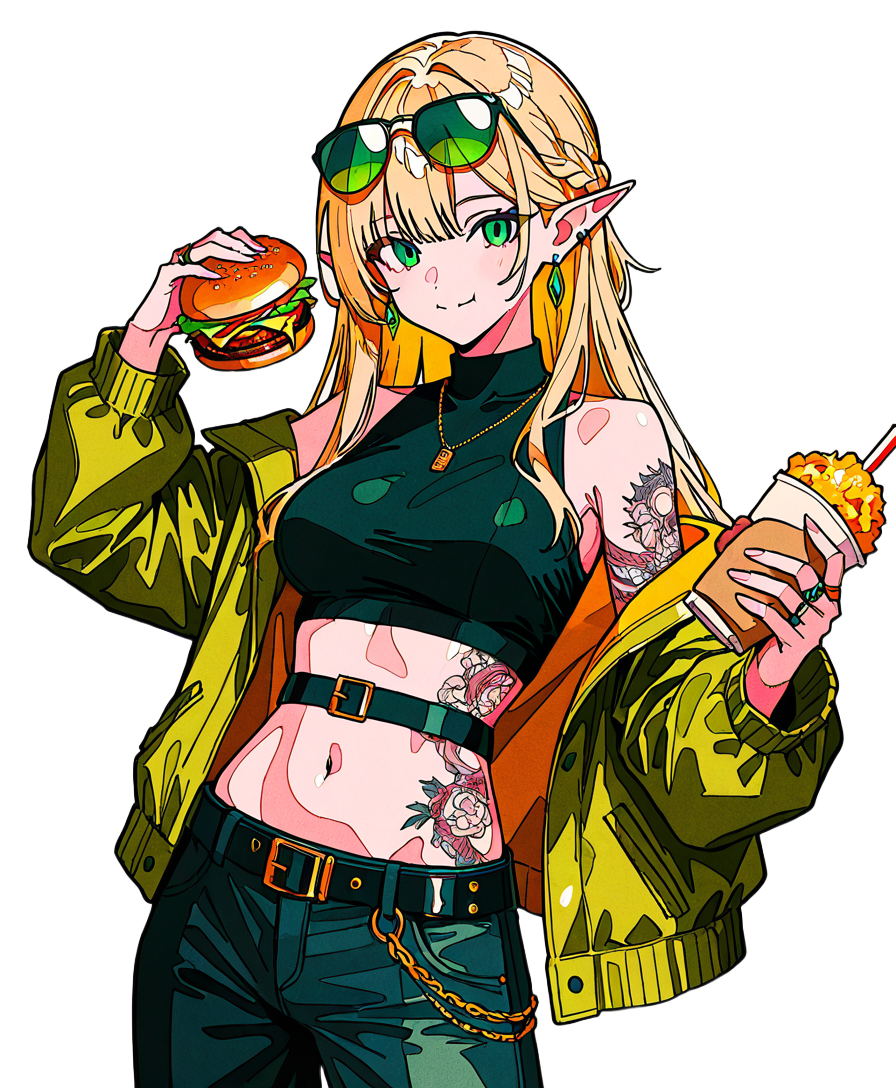
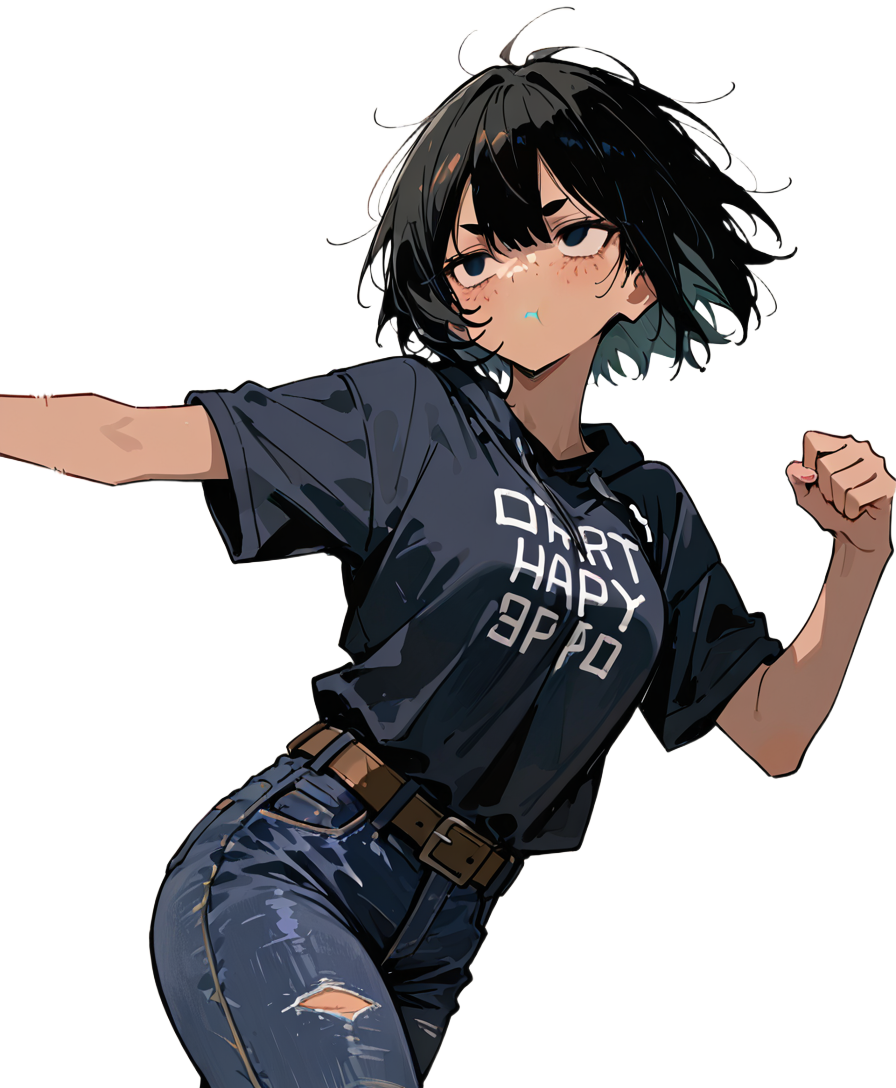
tinny upgrade

diff --git a/vite.config.js b/vite.config.js
@@ -20,7 +20,16 @@ export default defineConfig({
       '/api': {
         target: 'http://localhost:8000',
         changeOrigin: true,
-      }
-    }
-  }
+        // 立绘/背景可能数十分钟；Node 默认 socket 约 2min、代理层也可能断连，易触发后端 CancelledError
+        timeout: 3_600_000,
+        proxyTimeout: 3_600_000,
+        configure(proxy) {
+          proxy.on('proxyReq', (_proxyReq, req) => {
+            req.setTimeout(0)
+            req.socket?.setTimeout?.(0)
+          })
+        },
+      },
+    },
+  },
 })

diff --git a/server/app/services/get_runninghub_pic.py b/server/app/services/get_runninghub_pic.py
@@ -14,8 +14,67 @@ import requests
 from typing import List, Optional, Tuple
 from urllib.parse import urlparse
 
-# 与 get_running_pic 中用于文件名后缀的表情标识一致
-EXPRESSION_LS = ['happy', 'depression', 'crying', 'smile', 'surprise', 'shy', 'tsundere','anger','sad']
+# public/img_generate_default_para.json：默认立绘表情 id → 详细英文说明（可随时改文件，mtime 变则自动重载）
+_STAND_EXPR_JSON_REL = "public/img_generate_default_para.json"
+_stand_expr_cache: Tuple[Optional[float], List[Tuple[str, str]]] = (None, [])
+
+
+def _parse_stand_expressions_data(data: object) -> List[Tuple[str, str]]:
+    """支持顶层 { \"happy\": \"...\" } 或 { \"expressions\": { ... } }；忽略以 _ 开头的键。"""
+    if not isinstance(data, dict):
+        return []
+    raw: dict
+    ex = data.get("expressions")
+    if isinstance(ex, dict):
+        raw = ex
+    else:
+        raw = data
+    out: List[Tuple[str, str]] = []
+    for k, v in raw.items():
+        ks = str(k).strip()
+        if not ks or ks.startswith("_"):
+            continue
+        if isinstance(v, str) and v.strip():
+            out.append((ks, v.strip()))
+        elif isinstance(v, dict):
+            det = (
+                v.get("description")
+                or v.get("detail")
+                or v.get("prompt")
+                or v.get("prompt_detail")
+            )
+            if isinstance(det, str) and det.strip():
+                out.append((ks, det.strip()))
+    return out
+
+
+def load_default_stand_expressions() -> List[Tuple[str, str]]:
+    """
+    读取项目根下 public/img_generate_default_para.json，返回 [(表情 id, 详细说明), ...]。
+    按文件 mtime 缓存；修改 JSON 后同进程内下次调用自动生效，无需重启。
+    """
+    global _stand_expr_cache
+    path = tools.get_project_root() / _STAND_EXPR_JSON_REL
+    if not path.is_file():
+        raise FileNotFoundError(
+            f"未找到默认立绘配置: {path}（请创建 img_generate_default_para.json）"
+        )
+    mtime = path.stat().st_mtime
+    m_old, pairs_old = _stand_expr_cache
+    if m_old is not None and m_old == mtime and pairs_old:
+        return list(pairs_old)
+    with open(path, encoding="utf-8") as f:
+        data = json.load(f)
+    pairs = _parse_stand_expressions_data(data)
+    if not pairs:
+        raise ValueError(f"默认立绘配置无有效表情条目: {path}")
+    _stand_expr_cache = (mtime, pairs)
+    return list(pairs)
+
+
+def default_stand_expression_ids() -> List[str]:
+    """默认模式下全部立绘文件名的 stem 列表（顺序与 JSON 一致）。"""
+    return [a for a, _ in load_default_stand_expressions()]
 
 
 def sanitize_character_name_for_path(name: str) -> str:
@@ -354,28 +413,31 @@ def download_runninghub(
 
 def get_art_prompt(description: str):
     class ArtPrompt(BaseModel):
-        art_prompt: str = Field(description="对给的自然语言描述的标准分词描述")
+        art_prompt: str = Field(
+            description="仅基于用户描述中可画面化的外貌与服饰的英文 SD 标签，逗号分隔；严禁臆造"
+        )
 
     parser = PydanticOutputParser(pydantic_object=ArtPrompt)
     prompt = PromptTemplate(
         template="""
-            你是一个 ComfyUI 提示词专家。你的任务是将用户对人物图片的自然语言描述，转换成适合 Stable Diffusion / ComfyUI 使用的英文提示词。
+            你是一个 ComfyUI 提示词专家。将用户输入中**与画面直接相关**的部分，转成 Stable Diffusion / ComfyUI 可用的英文标签。
 
-    要求：
-    1. 只输出英文提示词，用英文逗号分隔，不要加解释。
-    2. 按此顺序组织：画面质量词 → 主体（人物特征、服饰、动作）→ 背景/环境 → 光照 → 风格/氛围。
-    3. 使用 SD 社区常见的标签风格，如：masterpiece, best quality, 1girl, solo, 具体特征使用下划线连接（如 blue_eyes, long_hair）。
-    4. 如果描述中包含负面内容（如模糊、畸形等），将其单独整理为负面提示词，用“负面提示词：”标注。
-    5. 保持简洁，不输出自然语言句子。
-    6. 只用给出相应的active prompt
-    7. 仅描述人物特征， 背景描述为简短背景或纯色背景
-    示例：
-    输入：一个年轻女孩，长发，穿着白色连衣裙，站在樱花树下，阳光透过花瓣洒下来，画风是二次元。
+    【硬性约束 — 必须遵守】
+    1. **只输出与人物外在可见信息相关的英文标签**：脸型/身材概括、发型发色、五官可见特征、皮肤可见特征、服装与配饰、简单站姿或半身取景（若原文完全未提动作则用 neutral 或 standing 之一，勿编故事性动作）。
+    2. **严禁捏造**：用户未写到的发型、服装颜色、道具、场景、天气、互动对象、剧情、情绪细节、文字牌子等均不得自行添加。性格/心理描写若无法对应到可见画面表现，**忽略不写**。
+    3. **背景与氛围**：除非用户原文明确提到背景或环境，否则只用极简占位：**simple_background** 或 **plain_background** 或 **white_background** 三选一，不要写樱花、教室、街道等用户未提及的景物。
+    4. 只输出英文提示词，逗号分隔，不要解释、不要中文、不要自然语言长句。
+    5. 画面质量可带简短通用词：masterpiece, best quality；人物计数用 1girl / 1boy / solo 等与描述一致。
+    6. 使用 SD 常见标签风格，特征多用下划线（如 long_hair, school_uniform）。若原文含应进入负面词的内容，用「负面提示词：」单独列出英文负面词。
+    7. 若用户描述极短，只忠实扩展为等价英文标签，仍不添加无依据的细节。
+
+    示例（仅示范忠实性；实际须严格以用户输入为准）：
+    输入：短发少女，白衬衫红领结。
     输出：
-    masterpiece, best quality, 1girl, solo, long_hair, white_dress, standing, simple_background, outdoors, sunlight, dappled_light, anime_style
+    masterpiece, best quality, 1girl, solo, short_hair, white_shirt, red_bow, simple_background
 
 
-            创作要求：{text}
+            用户输入（仅从中抽取可入画的外貌与服饰信息）：{text}
 
             请严格按照以下格式输出,不要添加任何额外说明：：
             {format_instructions}
@@ -416,7 +478,8 @@ def get_running_pic(
     """
     图片保存到 public/sources/pic/{角色名}/，文件名为 {id}_1.png。
     stand_items 为 (id, description) 列表：description 拼入 prompt 末尾（与原先各表情词一致），id 用于文件名。
-    未传 stand_items 时使用内置 EXPRESSION_LS，且 id 与 description 相同。
+    未传 stand_items 时从 public/img_generate_default_para.json 读取 (id, 详细说明)，
+    每条正向 prompt 为：get_art_prompt 结果 + cowboy_shot + 表情 id + JSON 中的详细说明。
     image_prompt_extra 非空时以英文逗号风格附加在每条正向 prompt 末尾（不经 get_art_prompt）。
     每条立绘成功后会写入同目录 {id}.txt：default 为 expression 文本，custom 为 description。
     """
@@ -426,7 +489,7 @@ def get_running_pic(
     os.makedirs(save_dir_final, exist_ok=True)
 
     items: List[Tuple[str, str]] = (
-        list(stand_items) if stand_items else [(e, e) for e in EXPRESSION_LS]
+        list(stand_items) if stand_items else load_default_stand_expressions()
     )
     if not items:
         raise ValueError("立绘列表为空：请使用默认表情或提供至少一组自定义 id+description")
@@ -441,7 +504,8 @@ def get_running_pic(
         d = (desc or "").strip()
         if not sid or not d:
             raise ValueError("每项立绘须包含非空的 id 与 description")
-        line = f"{ex}, cowboy_shot, {d}"
+        # 同时写入表情 id 与 JSON 配置的详细说明，便于模型区分不同立绘
+        line = f"{ex}, cowboy_shot, stand_expression_{sid}, {d}"
         if extra:
             line = f"{line}, {extra}"
         pm.append(line)

diff --git a/server/app/routers/runninghub.py b/server/app/routers/runninghub.py
@@ -6,6 +6,7 @@ from typing import Any, List, Optional, Tuple, Union
 
 from fastapi import APIRouter, HTTPException
 from pydantic import BaseModel, Field
+from starlette.concurrency import run_in_threadpool
 
 from app.services import const, tools
 from app.services.get_bg import get_bg
@@ -13,9 +14,9 @@ from app.services.comfyui_size_presets import SIZE_PRESETS
 from app.services.comfyui_workflow_mapping import list_comfyui_workflows, safe_workflow_json_path
 from app.services.get_comfyui_pic import get_comfy_char_pics, comfy_generate_flow_backgrounds
 from app.services.get_runninghub_pic import (
-    EXPRESSION_LS,
     default_runninghub_pic_dir,
     get_running_pic,
+    load_default_stand_expressions,
     sanitize_character_name_for_path,
 )
 from app.services.remove_bg import replace_character_stand_pics_with_removed_bg
@@ -27,7 +28,7 @@ _STAND_CUSTOM_MAX = 60
 
 
 class StandCustomItem(BaseModel):
-    """自定义立绘：id 用于文件名 {id}_1.png，description 拼入 prompt（同原 EXPRESSION_LS 项）。"""
+    """自定义立绘：id 用于文件名 {id}_1.png，description 拼入 prompt（与默认 JSON 中每条格式相同）。"""
 
     id: str = Field(..., min_length=1, description="文件名主键，如 happy、pose01")
     description: str = Field(
@@ -43,7 +44,7 @@ def _resolve_stand_items(
 ) -> List[Tuple[str, str]]:
     m = (mode or "default").strip().lower()
     if m != "custom":
-        return [(e, e) for e in EXPRESSION_LS]
+        return load_default_stand_expressions()
     if not custom_items:
         raise HTTPException(
             status_code=400,
@@ -88,7 +89,7 @@ class GenerateCharacterPicsBody(BaseModel):
     )
     stand_expression_mode: str = Field(
         default="default",
-        description="default=内置表情全集 EXPRESSION_LS；custom=使用 stand_custom_items",
+        description="default=读取 public/img_generate_default_para.json；custom=使用 stand_custom_items",
     )
     stand_custom_items: List[StandCustomItem] = Field(
         default_factory=list,
@@ -104,7 +105,7 @@ class RemoveStandPicBgBody(BaseModel):
     character_name: str = Field("", description="与立绘目录一致的角色名（同生成立绘时的名称规则）")
     stand_expression_ids: Optional[List[str]] = Field(
         default=None,
-        description="仅处理这些 id 对应的立绘 PNG；空则处理内置 EXPRESSION_LS 全套",
+        description="仅处理这些 id 对应的立绘 PNG；空则按 img_generate_default_para.json 全部 id",
     )
 
 
@@ -215,8 +216,10 @@ async def generate_character_pics(body: GenerateCharacterPicsBody):
             )
 
     try:
-        loop = asyncio.get_running_loop()
-        await loop.run_in_executor(None, _run)
+        # shield：避免客户端断开/中间层超时等导致 await 收到 CancelledError，线程内出图仍尽量跑完
+        await asyncio.shield(run_in_threadpool(_run))
+    except asyncio.CancelledError:
+        raise
     except Exception as e:
         raise HTTPException(status_code=500, detail=f"生成失败: {e!s}") from e
 
@@ -301,8 +304,9 @@ async def generate_flow_backgrounds(body: GenerateFlowBackgroundsBody):
             generated += 1
 
     try:
-        loop = asyncio.get_running_loop()
-        await loop.run_in_executor(None, _run)
+        await asyncio.shield(run_in_threadpool(_run))
+    except asyncio.CancelledError:
+        raise
     except Exception as e:
         raise HTTPException(status_code=500, detail=f"生成背景失败: {e!s}") from e
 
@@ -339,8 +343,9 @@ async def remove_stand_pic_backgrounds(body: RemoveStandPicBgBody):
         )
 
     try:
-        loop = asyncio.get_running_loop()
-        images = await loop.run_in_executor(None, _run)
+        images = await asyncio.shield(run_in_threadpool(_run))
+    except asyncio.CancelledError:
+        raise
     except FileNotFoundError as e:
         raise HTTPException(status_code=404, detail=str(e)) from e
     except ValueError as e:

diff --git a/server/app/services/get_comfyui_pic.py b/server/app/services/get_comfyui_pic.py
@@ -29,9 +29,9 @@ from app.services.comfyui_workflow_mapping import (
 )
 from app.services.get_bg import _append_no_people_to_prompts
 from app.services.get_runninghub_pic import (
-    EXPRESSION_LS,
     default_runninghub_pic_dir,
     get_art_prompt,
+    load_default_stand_expressions,
     sanitize_character_name_for_path,
     stand_pic_save_filename,
     write_stand_pic_description_txt,
@@ -136,14 +136,14 @@ def get_comfy_char_pics(
     image_prompt_extra: Optional[str] = None,
     stand_expression_mode: str = "default",
 ) -> None:
-    """与 get_running_pic 相同目录与文件名规则；stand_items 为 (id, description)，未传则使用 EXPRESSION_LS；每条出图后写同目录描述 .txt。"""
+    """与 get_running_pic 相同目录与文件名规则；stand_items 为 (id, description)，未传则读 img_generate_default_para.json；每条出图后写同目录描述 .txt。"""
     base_dir = save_dir if save_dir else default_runninghub_pic_dir()
     safe_char = sanitize_character_name_for_path(character_name)
     save_dir_final = os.path.join(base_dir, safe_char)
     os.makedirs(save_dir_final, exist_ok=True)
 
     items: List[Tuple[str, str]] = (
-        list(stand_items) if stand_items else [(e, e) for e in EXPRESSION_LS]
+        list(stand_items) if stand_items else load_default_stand_expressions()
     )
     if not items:
         raise ValueError("立绘列表为空")
@@ -155,7 +155,7 @@ def get_comfy_char_pics(
         d = (desc or "").strip()
         if not sid or not d:
             raise ValueError("每项立绘须包含非空的 id 与 description")
-        pm = f"{ex}, cowboy_shot, {d}"
+        pm = f"{ex}, cowboy_shot, stand_expression_{sid}, {d}"
         if extra:
             pm = f"{pm}, {extra}"
         out_path = os.path.join(save_dir_final, stand_pic_save_filename(sid))

diff --git a/server/app/services/remove_bg.py b/server/app/services/remove_bg.py
@@ -7,8 +7,8 @@ from typing import List, Optional
 from app.services import const, tools
 from app.services.comfyui_client import ComfyUiClient
 from app.services.get_runninghub_pic import (
-    EXPRESSION_LS,
     default_runninghub_pic_dir,
+    default_stand_expression_ids,
     list_stand_pic_png_paths,
     sanitize_character_name_for_path,
 )
@@ -61,7 +61,7 @@ def replace_character_stand_pics_with_removed_bg(
     """
     对 public/sources/pic/{角色名}/ 下立绘 PNG 去背景并覆盖原文件。
     每个表情匹配 happy.png、happy_1.png、happy_2.png 等形式（见 list_stand_pic_png_paths）。
-    stand_expression_ids 非空时仅处理这些 id（与自定义立绘文件名一致）；否则处理内置 EXPRESSION_LS。
+    stand_expression_ids 非空时仅处理这些 id（与自定义立绘文件名一致）；否则处理 img_generate_default_para.json 中的全部 id。
     """
     folder = sanitize_character_name_for_path((character_name or "").strip())
     base = default_runninghub_pic_dir()
@@ -72,10 +72,10 @@ def replace_character_stand_pics_with_removed_bg(
     expr_list = (
         [x.strip() for x in stand_expression_ids if x and str(x).strip()]
         if stand_expression_ids
-        else list(EXPRESSION_LS)
+        else default_stand_expression_ids()
     )
     if not expr_list:
-        expr_list = list(EXPRESSION_LS)
+        expr_list = default_stand_expression_ids()
 
     out: List[dict] = []
     for expr in expr_list:
